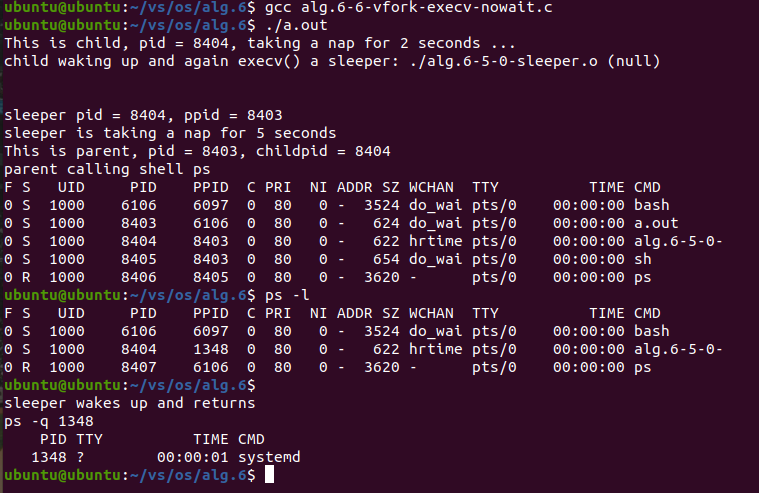
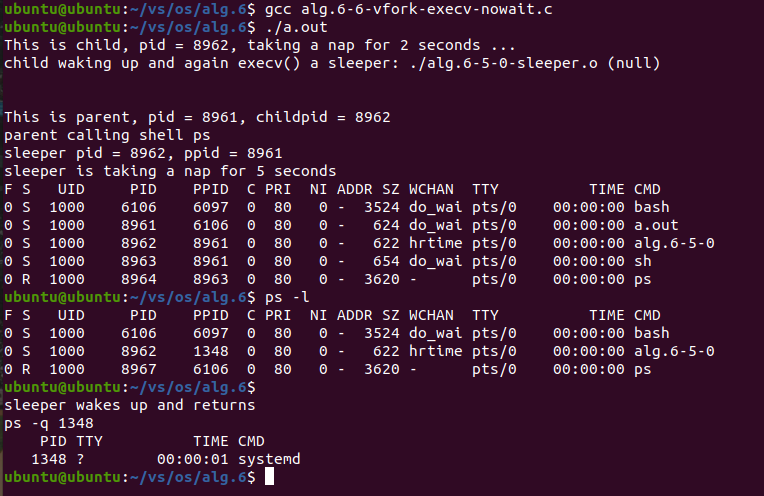
2.5

diff --git a/Labwork5.md b/Labwork5.md
@@ -165,7 +165,25 @@
 
 ![](http://stugeek.gitee.io/operating-system/Labwork5-pictures/24.png)
 
-分析：bash是start main（）的父pro
+分析：
+
+![](http://stugeek.gitee.io/operating-system/Labwork5-pictures/25.jpg)
+
+bash是start main（）的父pro
+
+![](http://stugeek.gitee.io/operating-system/Labwork5-pictures/26.jpg)
+
+![](http://stugeek.gitee.io/operating-system/Labwork5-pictures/27.jpg)
+
+![](http://stugeek.gitee.io/operating-system/Labwork5-pictures/28.jpg)
+
+![](http://stugeek.gitee.io/operating-system/Labwork5-pictures/29.jpg)
+
+![](http://stugeek.gitee.io/operating-system/Labwork5-pictures/30.jpg)
+
+![](http://stugeek.gitee.io/operating-system/Labwork5-pictures/31.jpg)
+
+![](http://stugeek.gitee.io/operating-system/Labwork5-pictures/32.jpg)
 
 start main（）是sleeper的父pro，它从execv（）继承vorked子级的pid
 
